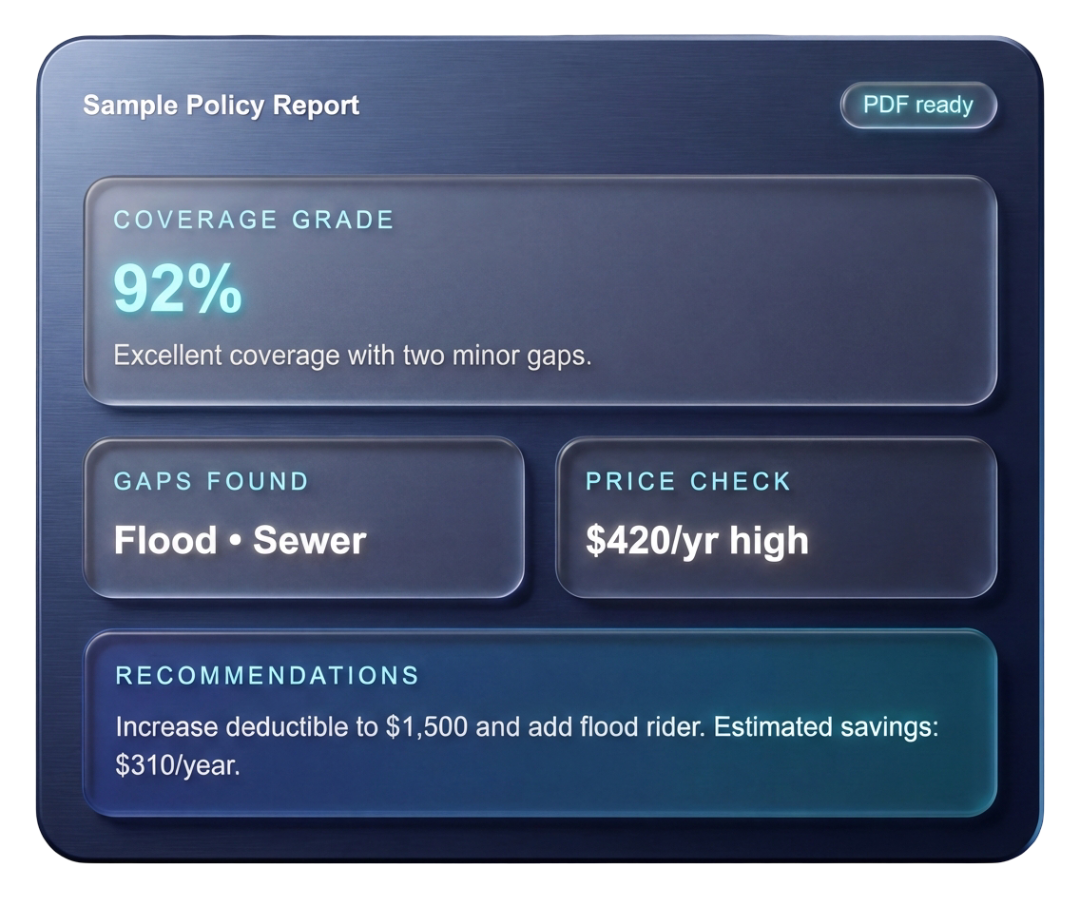
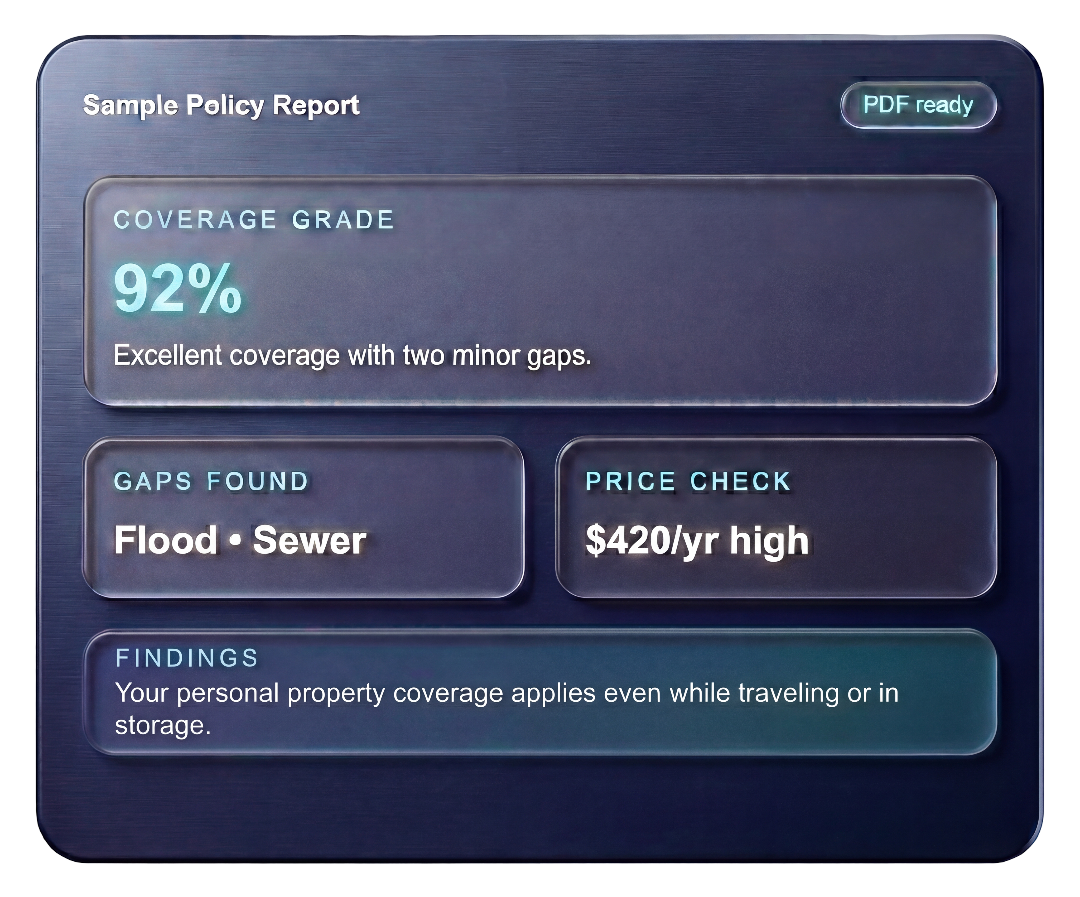
update: transparent report nav, fix Geist font, new graphics

diff --git a/src/app/report/[id]/page.tsx b/src/app/report/[id]/page.tsx
@@ -35,7 +35,7 @@ export default async function ReportPage({ params }: ReportPageProps) {
   return (
     <div className="min-h-screen bg-[#F6F6FA]">
       {/* Header */}
-      <header className="bg-white border-b border-gray-100 sticky top-0 z-10">
+      <header>
         <nav className="max-w-5xl mx-auto px-4 py-4 flex items-center justify-between">
           <Link href="/" className="flex items-center gap-2">
             <img src="/logo.png" alt="Policy Pilot" className="w-8 h-8 rounded-lg" />

diff --git a/src/app/globals.css b/src/app/globals.css
@@ -35,7 +35,7 @@ html {
 
 body {
   color: var(--foreground);
-  font-family: Arial, Helvetica, sans-serif;
+  font-family: var(--font-geist-sans), Arial, Helvetica, sans-serif;
   padding-top: env(safe-area-inset-top);
   padding-bottom: env(safe-area-inset-bottom);
   padding-left: env(safe-area-inset-left);
